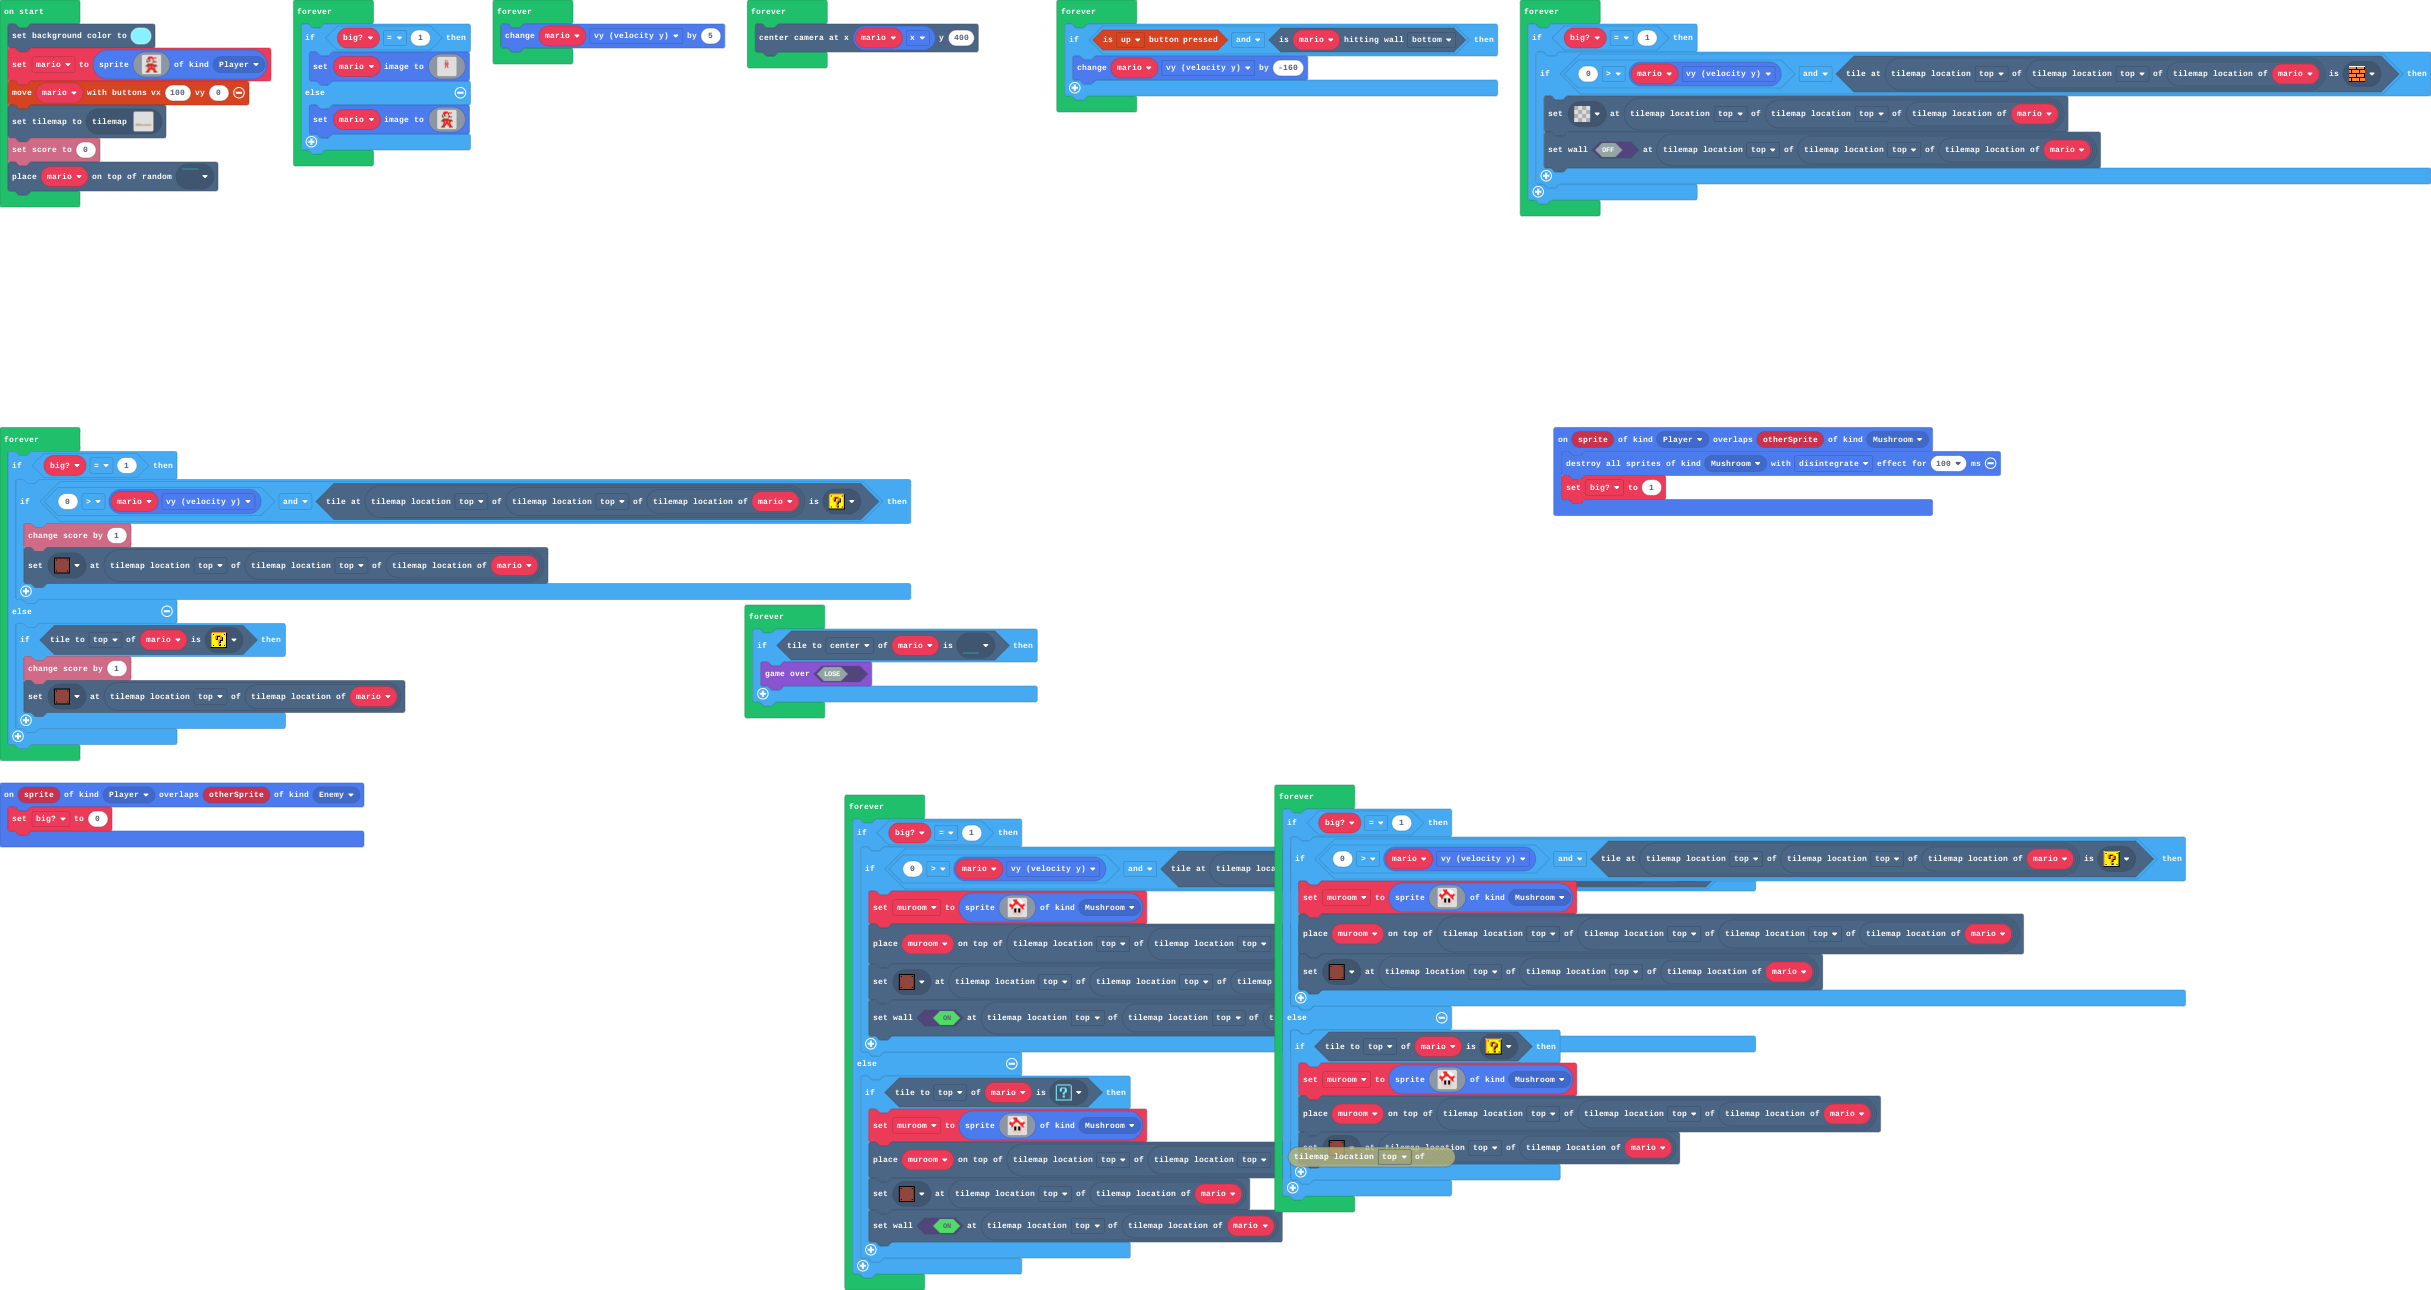
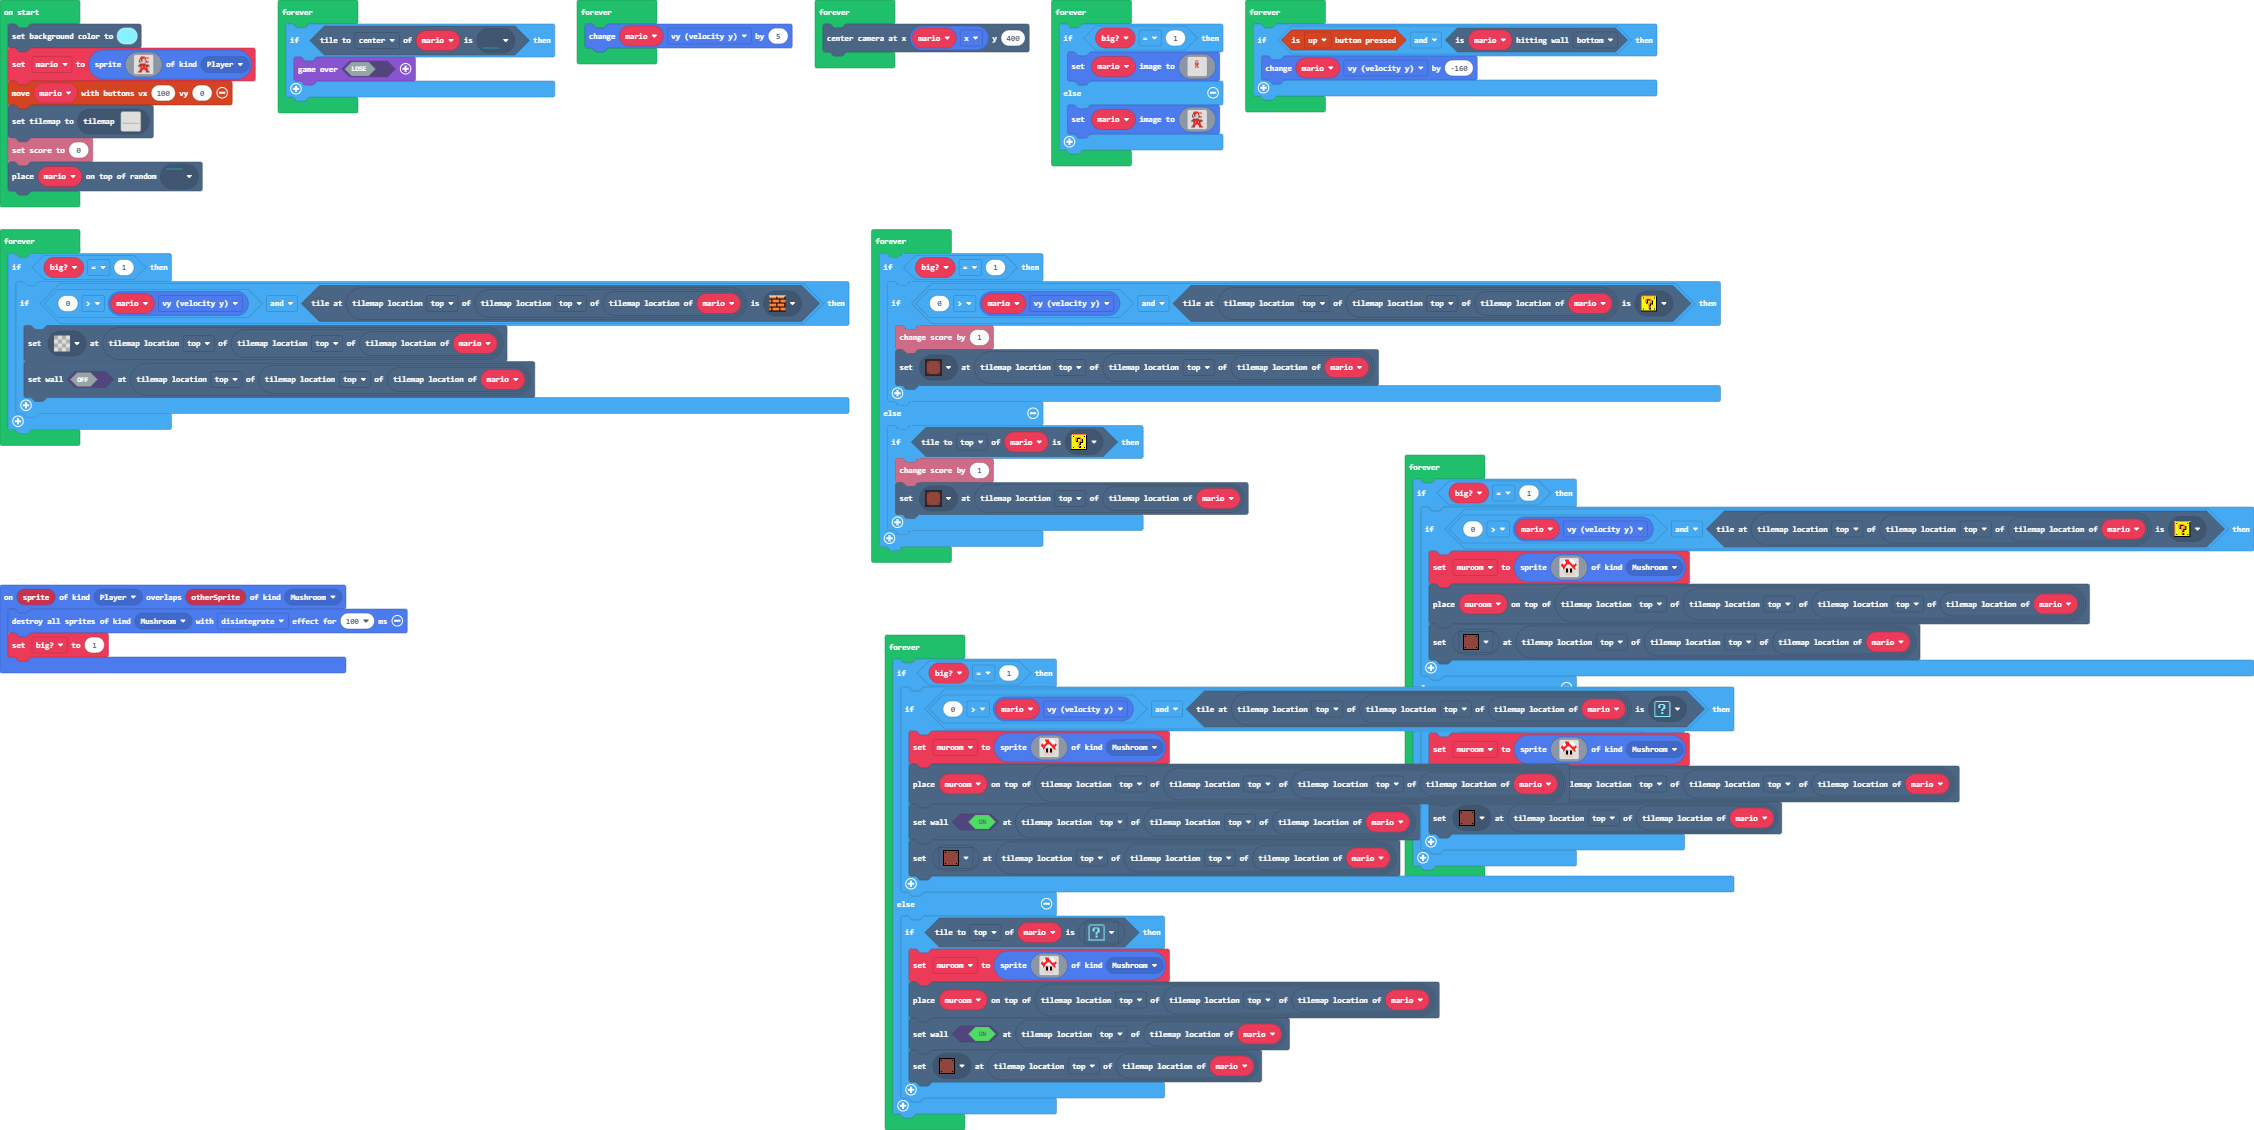
Update pxt.json, main.blocks, main.ts, tilemap.g.jres, tilemap.g.ts, images.g.jres, images.g.ts

diff --git a/tilemap.g.ts b/tilemap.g.ts
@@ -75,39 +75,39 @@ namespace myTiles {
 . . . . . . . . . . . . . . . . 
 `, [myTiles.transparency16], TileScale.Sixteen);
             case "level":
[1 lines of base64/hex data omitted]
-................................................................
-................................................................
-................................................................
-................................................................
-................................................................
-................................................................
-................................................................
-................................................................
-................................................................
-................................................................
-................................................................
-................................................................
-................................................................
-................................................................
-................................................................
-................................................................
-................................................................
-................................................................
-................................................................
-................................................................
-................................................................
-................................................................
-........2.......................................................
-................................................................
-................................................................
-...2..22222.......22............................................
-.............22...22............................................
-.............22...22............................................
-22222222222222222222222222222222..222222222222222222222222222222
-22222222222222222222222222222222..222222222222222222222222222222
-22222222222222222222222222222222..222222222222222222222222222222
-22222222222222222222222222222222..222222222222222222222222222222
[1 lines of base64/hex data omitted]
+................................................................................................................................
+................................................................................................................................
+................................................................................................................................
+................................................................................................................................
+................................................................................................................................
+................................................................................................................................
+................................................................................................................................
+................................................................................................................................
+................................................................................................................................
+................................................................................................................................
+................................................................................................................................
+................................................................................................................................
+................................................................................................................................
+................................................................................................................................
+................................................................................................................................
+................................................................................................................................
+................................................................................................................................
+................................................................................................................................
+................................................................................................................................
+......................................................2.........................................................................
+................................................................................................................................
+.....................................2222222....................................................................................
+........2...........................................2...2.......................................................................
+................................................................................................................................
+...................................2............................................................................................
+...2..22222.......22......................2222....2...2...2.....................................................................
+.............22...22............................................................................................................
+.............22...22............................................................................................................
+22222222222222222222222222222222..2222222222222222222222222222222222222222222222222222222222222222222222222222222222222222222222
+22222222222222222222222222222222..2222222222222222222222222222222222222222222222222222222222222222222222222222222222222222222222
+22222222222222222222222222222222..2222222222222222222222222222222222222222222222222222222222222222222222222222222222222222222222
+22222222222222222222222222222222..2222222222222222222222222222222222222222222222222222222222222222222222222222222222222222222222
 `, [myTiles.transparency16,myTiles.tile2,myTiles.tile3,myTiles.tile4,myTiles.tile6,myTiles.tile5,myTiles.tile8,myTiles.tile7,myTiles.tile9,myTiles.tile12,myTiles.tile13,myTiles.tile14,myTiles.tile15,myTiles.tile16,myTiles.tile17,myTiles.tile18,myTiles.tile22,myTiles.tile23,myTiles.tile24,myTiles.tile25], TileScale.Sixteen);
         }
         return null;

diff --git a/main.ts b/main.ts
@@ -5,9 +5,6 @@ sprites.onOverlap(SpriteKind.Player, SpriteKind.Mushroom, function (sprite, othe
     sprites.destroyAllSpritesOfKind(SpriteKind.Mushroom, effects.disintegrate, 100)
     big = 1
 })
-sprites.onOverlap(SpriteKind.Player, SpriteKind.Enemy, function (sprite, otherSprite) {
-    big = 0
-})
 let muroom: Sprite = null
 let big = 0
 scene.setBackgroundColor(9)
@@ -17,10 +14,8 @@ tiles.setCurrentTilemap(tilemap`level`)
 info.setScore(0)
 tiles.placeOnRandomTile(mario, assets.tile`myTile14`)
 forever(function () {
-    if (big == 1) {
-        mario.setImage(assets.image`marlo1`)
-    } else {
-        mario.setImage(assets.image`marlo`)
+    if (mario.tileKindAt(TileDirection.Center, assets.tile`myTile15`)) {
+        game.over(false)
     }
 })
 forever(function () {
@@ -28,6 +23,13 @@ forever(function () {
 })
 forever(function () {
     scene.centerCameraAt(mario.x, 400)
+})
+forever(function () {
+    if (big == 1) {
+        mario.setImage(assets.image`marlo1`)
+    } else {
+        mario.setImage(assets.image`marlo`)
+    }
 })
 forever(function () {
     if (controller.up.isPressed() && mario.isHittingTile(CollisionDirection.Bottom)) {
@@ -56,28 +58,6 @@ forever(function () {
     }
 })
 forever(function () {
-    if (mario.tileKindAt(TileDirection.Center, assets.tile`myTile15`)) {
-        game.gameOver(false)
-    }
-})
-forever(function () {
-    if (big == 1) {
-        if (0 > mario.vy && tiles.tileAtLocationEquals(mario.tilemapLocation().getNeighboringLocation(CollisionDirection.Top).getNeighboringLocation(CollisionDirection.Top), assets.tile`msyteryblock2`)) {
-            muroom = sprites.create(assets.image`myImage`, SpriteKind.Mushroom)
-            tiles.placeOnTile(muroom, mario.tilemapLocation().getNeighboringLocation(CollisionDirection.Top).getNeighboringLocation(CollisionDirection.Top).getNeighboringLocation(CollisionDirection.Top))
-            tiles.setTileAt(mario.tilemapLocation().getNeighboringLocation(CollisionDirection.Top).getNeighboringLocation(CollisionDirection.Top), assets.tile`msyteryblock0`)
-            tiles.setWallAt(mario.tilemapLocation().getNeighboringLocation(CollisionDirection.Top).getNeighboringLocation(CollisionDirection.Top), true)
-        }
-    } else {
-        if (mario.tileKindAt(TileDirection.Top, assets.tile`msyteryblock2`)) {
-            muroom = sprites.create(assets.image`myImage`, SpriteKind.Mushroom)
-            tiles.placeOnTile(muroom, mario.tilemapLocation().getNeighboringLocation(CollisionDirection.Top).getNeighboringLocation(CollisionDirection.Top))
-            tiles.setTileAt(mario.tilemapLocation().getNeighboringLocation(CollisionDirection.Top), assets.tile`msyteryblock0`)
-            tiles.setWallAt(mario.tilemapLocation().getNeighboringLocation(CollisionDirection.Top), true)
-        }
-    }
-})
-forever(function () {
     if (big == 1) {
         if (0 > mario.vy && tiles.tileAtLocationEquals(mario.tilemapLocation().getNeighboringLocation(CollisionDirection.Top).getNeighboringLocation(CollisionDirection.Top), assets.tile`msyteryblock1`)) {
             muroom = sprites.create(assets.image`myImage`, SpriteKind.Mushroom)
@@ -88,6 +68,23 @@ forever(function () {
         if (mario.tileKindAt(TileDirection.Top, assets.tile`msyteryblock1`)) {
             muroom = sprites.create(assets.image`myImage`, SpriteKind.Mushroom)
             tiles.placeOnTile(muroom, mario.tilemapLocation().getNeighboringLocation(CollisionDirection.Top).getNeighboringLocation(CollisionDirection.Top))
+            tiles.setTileAt(mario.tilemapLocation().getNeighboringLocation(CollisionDirection.Top), assets.tile`msyteryblock0`)
+        }
+    }
+})
+forever(function () {
+    if (big == 1) {
+        if (0 > mario.vy && tiles.tileAtLocationEquals(mario.tilemapLocation().getNeighboringLocation(CollisionDirection.Top).getNeighboringLocation(CollisionDirection.Top), assets.tile`msyteryblock2`)) {
+            muroom = sprites.create(assets.image`myImage`, SpriteKind.Mushroom)
+            tiles.placeOnTile(muroom, mario.tilemapLocation().getNeighboringLocation(CollisionDirection.Top).getNeighboringLocation(CollisionDirection.Top).getNeighboringLocation(CollisionDirection.Top))
+            tiles.setWallAt(mario.tilemapLocation().getNeighboringLocation(CollisionDirection.Top).getNeighboringLocation(CollisionDirection.Top), true)
+            tiles.setTileAt(mario.tilemapLocation().getNeighboringLocation(CollisionDirection.Top).getNeighboringLocation(CollisionDirection.Top), assets.tile`msyteryblock0`)
+        }
+    } else {
+        if (mario.tileKindAt(TileDirection.Top, assets.tile`msyteryblock2`)) {
+            muroom = sprites.create(assets.image`myImage`, SpriteKind.Mushroom)
+            tiles.placeOnTile(muroom, mario.tilemapLocation().getNeighboringLocation(CollisionDirection.Top).getNeighboringLocation(CollisionDirection.Top))
+            tiles.setWallAt(mario.tilemapLocation().getNeighboringLocation(CollisionDirection.Top), true)
             tiles.setTileAt(mario.tilemapLocation().getNeighboringLocation(CollisionDirection.Top), assets.tile`msyteryblock0`)
         }
     }

diff --git a/images.g.ts b/images.g.ts
@@ -22,25 +22,6 @@ namespace myImages {
 . . . e e e . . . . e e e . . . 
 . . e e e e . . . . e e e e . . 
 `;
-            case "image2":
-            case "myImage":return img`
-. . . . 2 2 2 2 1 1 1 1 . . . . 
-. . . 1 2 2 2 2 1 1 1 1 1 . . . 
-. . 1 1 1 2 2 2 2 1 1 1 1 1 . . 
-. 1 1 1 1 2 2 2 2 2 1 1 1 1 1 . 
-. 2 1 1 2 2 2 2 2 2 2 1 1 1 2 . 
-2 2 2 2 2 2 1 1 1 2 2 2 2 2 2 2 
-2 2 2 2 2 1 1 1 1 1 2 2 2 2 2 1 
-1 2 2 2 1 1 1 1 1 1 1 2 2 2 1 1 
-1 1 2 2 d d d d d d d d 2 2 1 1 
-. 1 2 d d f f d d f f d d 2 2 . 
-. . . d d f f d d f f d d . . . 
-. . . d d f f d d f f d d . . . 
-. . . d d f f d d f f d d . . . 
-. . . d d d d d d d d d d . . . 
-. . . d d d d d d d d d d . . . 
-. . . . d d d d d d d d . . . . 
-`;
             case "image3":
             case "myImage0":return img`
 . . . . . . . . . . . . . . . . 
@@ -180,6 +161,25 @@ e e e e d d d d d d d d e e e e
 ................
 ................
 ................
+`;
+            case "image2":
+            case "myImage":return img`
+. . . . 2 2 2 2 1 1 1 1 . . . . 
+. . . 1 2 2 2 2 1 1 1 1 1 . . . 
+. . 1 1 1 2 2 2 2 1 1 1 1 1 . . 
+. 1 1 1 1 2 2 2 2 2 1 1 1 1 1 . 
+. 2 1 1 2 2 2 2 2 2 2 1 1 1 2 . 
+2 2 2 2 2 2 1 1 1 2 2 2 2 2 2 2 
+2 2 2 2 2 1 1 1 1 1 2 2 2 2 2 1 
+1 2 2 2 1 1 1 1 1 1 1 2 2 2 1 1 
+1 1 2 2 d d d d d d d d 2 2 1 1 
+. 1 2 d d f f d d f f d d 2 2 . 
+. . . d d f f d d f f d d . . . 
+. . . d d f f d d f f d d . . . 
+. . . d d f f d d f f d d . . . 
+. . . d d d d d d d d d d . . . 
+. . . d d d d d d d d d d . . . 
+. . . . d d d d d d d d . . . . 
 `;
         }
         return null;
